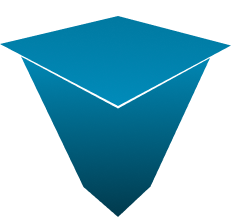
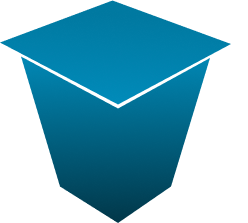
asd

Changed region(s): [[0.0, 0.0, 0.9315, 1.0]]

diff --git a/src/navbar.jsx b/src/navbar.jsx
@@ -119,7 +119,7 @@ const Navbar = () => {
         <div className="navbarcontents">
           <div className="logoandclasses" style={{ display: 'flex', justifyContent: 'center', alignItems: 'center', gap: '20px' }}>
             <Link to='/'onClick={handleLinkClick}>
-              <img className="Logo" src={KUBE} alt="Logo" />
+              <img className="Logo" style={{objectFit:"cover"}} src={KUBE} alt="Logo" />
             </Link>
             <div className="Title">
               <Link onClick={handleLinkClick} to='/' style={{ textDecoration: 'none', color: 'inherit' }}>

diff --git a/src/widgets/homepage/vaccancy.jsx b/src/widgets/homepage/vaccancy.jsx
@@ -73,7 +73,7 @@ function Vaccancy() {
                       ) : (
                         <div className='gigsdefualtposter'>
                           <div className="kubegraphicscontainer">
-                            <img src={KUBE} className='kubegraphics' alt="" />
+                            <img src={KUBE} style={{objectFit:"cover"}} className='kubegraphics' alt="" />
                             <h3>{gig.tuitiontype === 'Home Tuition' ? 'KUBE HOME TUITION' : 'KUBE ONLINE TUITION'}</h3>
                           </div>
                         </div>

diff --git a/src/widgets/filters/filter.jsx b/src/widgets/filters/filter.jsx
@@ -11,8 +11,8 @@ function Filters({setLocationFilter, setGenderFilter, setSearchTerm, priceRange,
                onChange={(e) => setGenderFilter(e.target.value)}
              name="Gender" id="Gender">
               <option value="">Select Gender</option>
-              <option value="male">Male</option>
-              <option value="female">Female</option>
+              <option value="Male">Male</option>
+              <option value="Female">Female</option>
             </select>
           </div>
          <div className="filterox">

diff --git a/src/admin/admin.jsx b/src/admin/admin.jsx
@@ -105,7 +105,7 @@ const handleSubmit = async (e) => {
   setIsSubmitting(true); // Set the submitting state to true to disable the button
   try {
     // Send the POST request to the API
-    const res = await axios.post(API_URL, { ...formData, status: "available" });
+    const res = await axios.post(`${webApi}/api/vacancies`, { ...formData, status: "available" });
 
     // Ensure that a valid response is received before updating state
     if (res.data && res.data.id) {

diff --git a/src/css/nav.css b/src/css/nav.css
@@ -18,7 +18,9 @@
 }
 
 
-
+.Logo{
+  object-fit: cover;
+}
 .navbarcontents{
   display: flex;
   justify-content: space-between;
